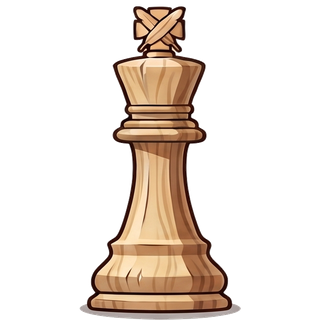
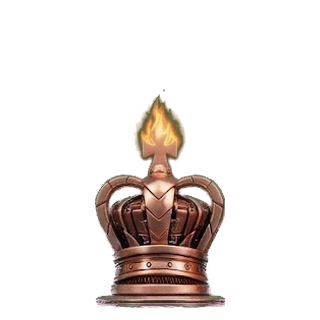
New piece set: copper and fire against blackened steel
Replaces the carved-wood set. The pieces now match the falcon in assets/ --
same copper, same flame -- and the knight is still a bird of prey rather than
a horse, because Kestrel is a falcon.

The two sides are deliberately not the same shapes in another colour. The
black pieces are drawn heavier and stand taller. An earlier pass here
normalised each piece type so white and black measured the same, on the
reasoning that a pawn is a pawn; that erased the one thing separating the
sides at a glance, and is undone. One global scale for all twelve, every
height exactly as drawn, one shared baseline.

What is NOT left to the source is the crop. The row bands are measured from
the image's own row profile rather than guessed: the flames rise well above
the bodies, the first bands were fifteen pixels too tight, and a beheaded king
is the kind of thing that is only visible once it is published. The green is
also un-mixed from the edge pixels rather than merely keyed out -- an edge
that is still part background wears a green halo the moment it lands on a
board, which is exactly where it lands.

recorta_pecas.py and the source sheet ship alongside, so the set can be recut
rather than being twelve binaries nobody can regenerate.

Worth knowing: the sheet is a 1024-wide JPEG, so each piece is about 150
pixels across before being scaled to 320. They are softer than the set they
replace, which was native at this size.

Claude-Session: https://claude.ai/code/session_01LiXZnuzu6WQwHSooUohDJq

Changed region(s): [[0.25, 0.0, 0.75, 1.0]]

diff --git a/assets/board/recorta_pecas.py b/assets/board/recorta_pecas.py
@@ -1,0 +1,89 @@
+#!/usr/bin/env python3
+"""Cut the twelve pieces out of the generated sheet, onto transparent squares.
+
+The sheet is a single image: two rows of six on a flat green, with a caption
+under each. What comes out is what the board actually loads -- 320x320 RGBA,
+one file per piece.
+"""
+from PIL import Image
+import numpy as np
+import sys, os
+
+ORIGEM = sys.argv[1] if len(sys.argv) > 1 else 'pecas_src.jpeg'
+DESTINO = sys.argv[2] if len(sys.argv) > 2 else 'pecas_novas'
+os.makedirs(DESTINO, exist_ok=True)
+
+a = np.asarray(Image.open(ORIGEM).convert('RGB')).astype(np.float32)
+FUNDO = np.array([50.0, 90.0, 63.0])
+
+# Um pixel de borda e' a peca misturada com o verde do fundo. A cobertura sai da
+# distancia a essa cor, e a cor tem de ser DESMISTURADA a seguir -- sem isso
+# cada peca fica com uma auréola esverdeada assim que assentar num tabuleiro,
+# que e' precisamente onde vai assentar.
+dist = np.linalg.norm(a - FUNDO[None, None, :], axis=2)
+alpha = np.clip((dist - 18.0) / 34.0, 0, 1)
+alpha[alpha < 0.10] = 0.0
+seguro = np.maximum(alpha, 0.03)[:, :, None]
+puro = np.clip((a - FUNDO[None, None, :] * (1 - alpha[:, :, None])) / seguro, 0, 255)
+rgba = np.dstack([puro, alpha * 255]).astype(np.uint8)
+
+# Bandas MEDIDAS do perfil de linhas com conteudo, nao adivinhadas. As chamas
+# sobem muito acima do corpo: um recorte apertado corta-as, e um rei sem coroa
+# so' se ve depois de estar publicado.
+NOMES = ["K", "Q", "R", "B", "N", "P"]
+FILAS = {"w": (115, 340), "b": (400, 700)}
+
+m = alpha > 0.35
+def colunas(y0, y1):
+    col = m[y0:y1].sum(axis=0)
+    gs, ini = [], None
+    for x, v in enumerate(col):
+        if v > 3 and ini is None: ini = x
+        elif v <= 3 and ini is not None:
+            if x - ini > 30: gs.append((ini, x))
+            ini = None
+    if ini is not None: gs.append((ini, len(col)))
+    return gs
+
+rec = {}
+for cor, (y0, y1) in FILAS.items():
+    gs = colunas(y0, y1)
+    if len(gs) != 6:
+        raise SystemExit(f"fila {cor}: encontrei {len(gs)} pecas, esperava 6")
+    for i, (x0, x1) in enumerate(gs):
+        sub = rgba[y0:y1, x0:x1]
+        ys, xs = np.nonzero(sub[:, :, 3] > 20)
+        rec[cor + NOMES[i]] = Image.fromarray(
+            sub[ys.min():ys.max() + 1, xs.min():xs.max() + 1], 'RGBA')
+
+LADO, MARGEM = 320, 12
+alvo = LADO - 2 * MARGEM
+
+# UMA escala global para as doze. Nada e' emparelhado nem normalizado.
+#
+# As alturas, dentro de cada fila e entre as duas, sao como foram desenhadas.
+# As brancas e as pretas NAO sao a mesma peca noutra cor -- as pretas tem outro
+# porte, e isso e' o desenho. Uma normalizacao "para ficarem iguais" apagaria
+# precisamente aquilo que distingue os dois lados.
+#
+# A unica coisa imposta e' a linha de base: a peca mais alta do conjunto enche
+# o quadrado, todas as outras escalam com ela pelo mesmo factor, e todas pousam
+# no mesmo sitio.
+mais_alta = max(img.size[1] for img in rec.values())
+g = alvo / mais_alta
+
+for nome, img in rec.items():
+    nw = max(1, round(img.size[0] * g))
+    nh = max(1, round(img.size[1] * g))
+    r = img.resize((nw, nh), Image.LANCZOS)
+    tela = Image.new('RGBA', (LADO, LADO), (0, 0, 0, 0))
+    # Centrada na horizontal e assente numa linha de base COMUM. A altura e' o
+    # que distingue as pecas de relance, e so' funciona se todas pousarem no
+    # mesmo sitio.
+    tela.alpha_composite(r, ((LADO - nw) // 2, LADO - MARGEM - nh))
+    tela.save(os.path.join(DESTINO, f'{nome}.png'))
+
+print("  alturas finais (uma so escala, como desenhadas):")
+for cor in ("w", "b"):
+    hs = {n: round(rec[cor + n].size[1] * g) for n in NOMES}
+    print(f"    {cor}: " + "  ".join(f"{n}={hs[n]:3d}" for n in NOMES))

diff --git a/assets/board/README.md b/assets/board/README.md
@@ -6,23 +6,51 @@ browser will actually load.
 
 ## The pieces
 
-`wK wQ wR wB wN wP` and the same with `b` — light and dark. PNG with an alpha
-channel, 320x320, drawn as carved wood: pale oak against dark red.
+`wK wQ wR wB wN wP` and the same with `b`. PNG with an alpha channel, 320x320.
 
-The knight is a bird of prey rather than a horse. Kestrel is a falcon.
+Copper and fire against blackened steel, to match the falcon in `assets/`. The
+knight is a bird of prey rather than a horse: Kestrel is a falcon.
 
-**Relative heights are preserved and that matters more than it sounds:**
+**The two sides are not the same shapes in another colour.** The black pieces
+are drawn heavier and stand taller than their white counterparts. That is the
+design, and normalising the two to match would erase the one thing that
+separates the sides at a glance.
 
-| | K | Q | B | N | R | P |
+One global scale for all twelve. The tallest piece fills its square, everything
+else scales by the same factor, and every piece sits on a common baseline.
+Nothing is fitted to its own square individually: relative height is how a
+player tells a rook from a queen without looking twice, and per-piece fitting
+would make the pawn as tall as the king.
+
+Heights as shipped, in pixels of the 320 canvas:
+
+| | K | Q | R | B | N | P |
 |---|---|---|---|---|---|---|
-| height | 1.00 | 0.89 | 0.81 | 0.79 | 0.70 | 0.64 |
+| white | 219 | 186 | 214 | 186 | 208 | 162 |
+| black | 296 | 263 | 237 | 221 | 245 | 163 |
 
-Cutting each piece to fill its own square is the obvious thing to do and it is
-wrong: it makes the pawn as tall as the king, and height is how a player tells
-them apart at a glance. Every piece here shares one scale and one baseline.
+The flames count toward height, which is why the rook stands close to the
+queen. Deliberate: the art was drawn to fill the square.
 
-Widened by 14% with the height untouched, so they sit fuller in a square
-without any of them changing rank.
+## Rebuilding them
+
+`pecas-fonte.jpeg` is the generated sheet -- twelve pieces on flat green, two
+rows of six. `recorta_pecas.py` turns it into the twelve files:
+
+```
+python3 recorta_pecas.py pecas-fonte.jpeg .
+```
+
+Two things in there are worth knowing before changing it. The row bands are
+**measured** from the image's own row profile rather than guessed, because the
+flames rise well above the bodies and a tight crop beheads the king -- which is
+only visible once it is published. And the green is un-mixed from the edge
+pixels rather than merely keyed out: skip that and every piece carries a green
+halo the moment it lands on a board, which is exactly where it lands.
+
+The source is a 1024-wide JPEG, so each piece is about 150 pixels across before
+being scaled up. They are softer than a natively-drawn set at this size would
+be.
 
 ## The squares
 
